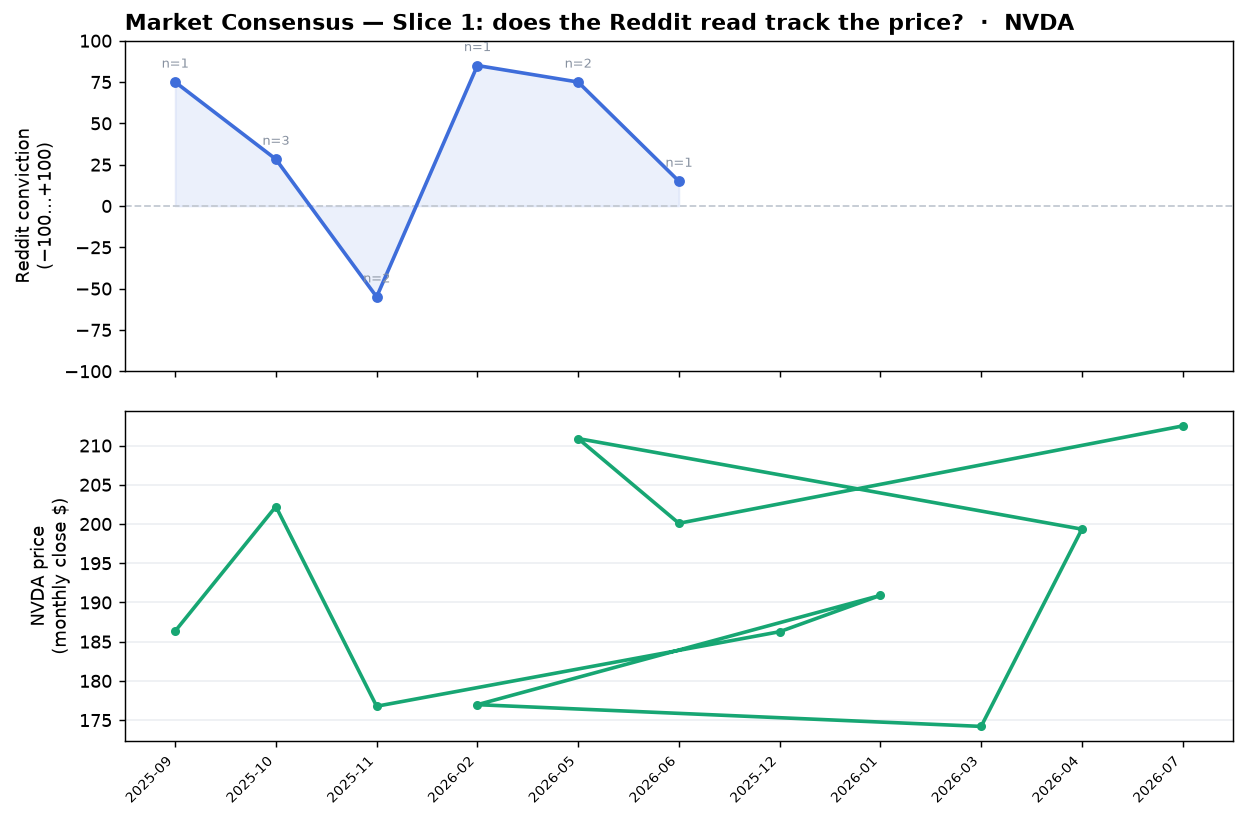
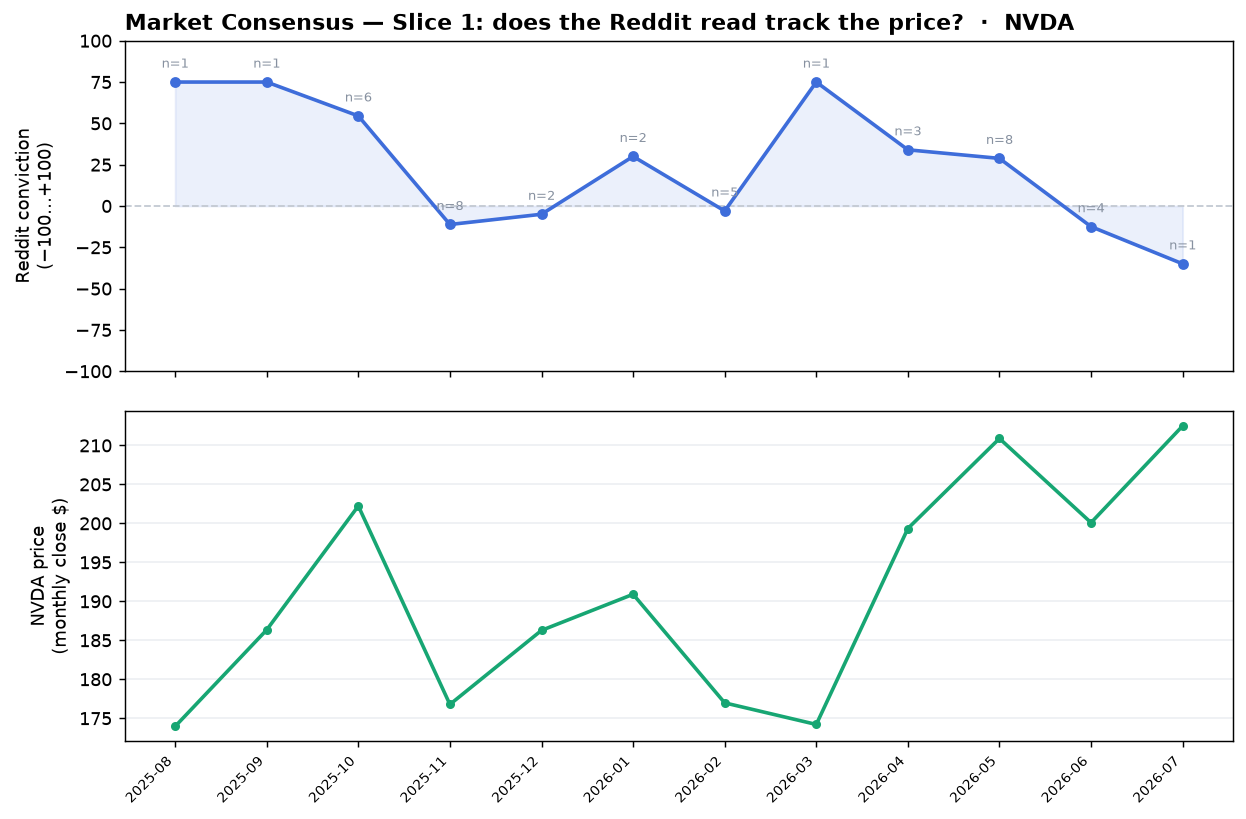
test finished

diff --git a/docs/BUILD_PLAN.md b/docs/BUILD_PLAN.md
@@ -44,7 +44,14 @@ _Last updated: 2026-07 — pivot from stock-news sentiment to crypto/stocks crow
 - `pgvector` embeddings + subject-query layer + cached `subject_reading`s.
 - Price-anchored backtest of conviction vs. forward returns.
 
-**Active slice:** Slice 0 (decisions) → then Slice 1.
+**Active slice:** Slice 1 loop PROVEN (2026-07, `slice1_prove_loop.py`) → next is
+Slice 1.5 (data volume) then Slice 2 (real backtest).
+
+**Slice 1 finding (NVDA, 42 relevant WSB posts / 12 months):** the loop runs end to
+end and produces a sensible read. In the months with enough posts (n≥6) conviction
+tracks price coincidentally (Oct '25 high/high, Nov '25 low/low, May '26 pos/high).
+The dramatic-looking "lead" (Mar) and "contrarian top" (Jul) months are n=1 — noise,
+not signal. **Verdict: idea is not disproven; #1 blocker is sample size per period.**
 
 ---
 
@@ -170,9 +177,9 @@ This completes the architecture story (resume bullet #3)._
 
 | Metric | Value | Captured when |
 |---|---|---|
-| Corpus items `[N]` | — | |
-| Hours of audio transcribed | — | |
-| Sources live | — | |
+| Corpus items `[N]` | 42 relevant / 100 fetched (NVDA, Slice 1) | 2026-07 |
+| Hours of audio transcribed | — (no audio yet) | |
+| Sources live | 1 (Reddit RSS search, WSB) | 2026-07 |
 | % chatter down-weighted `[X]` | — | |
 | Cluster-collapse ratio | — | |
 | Cached query latency (ms) | — | |